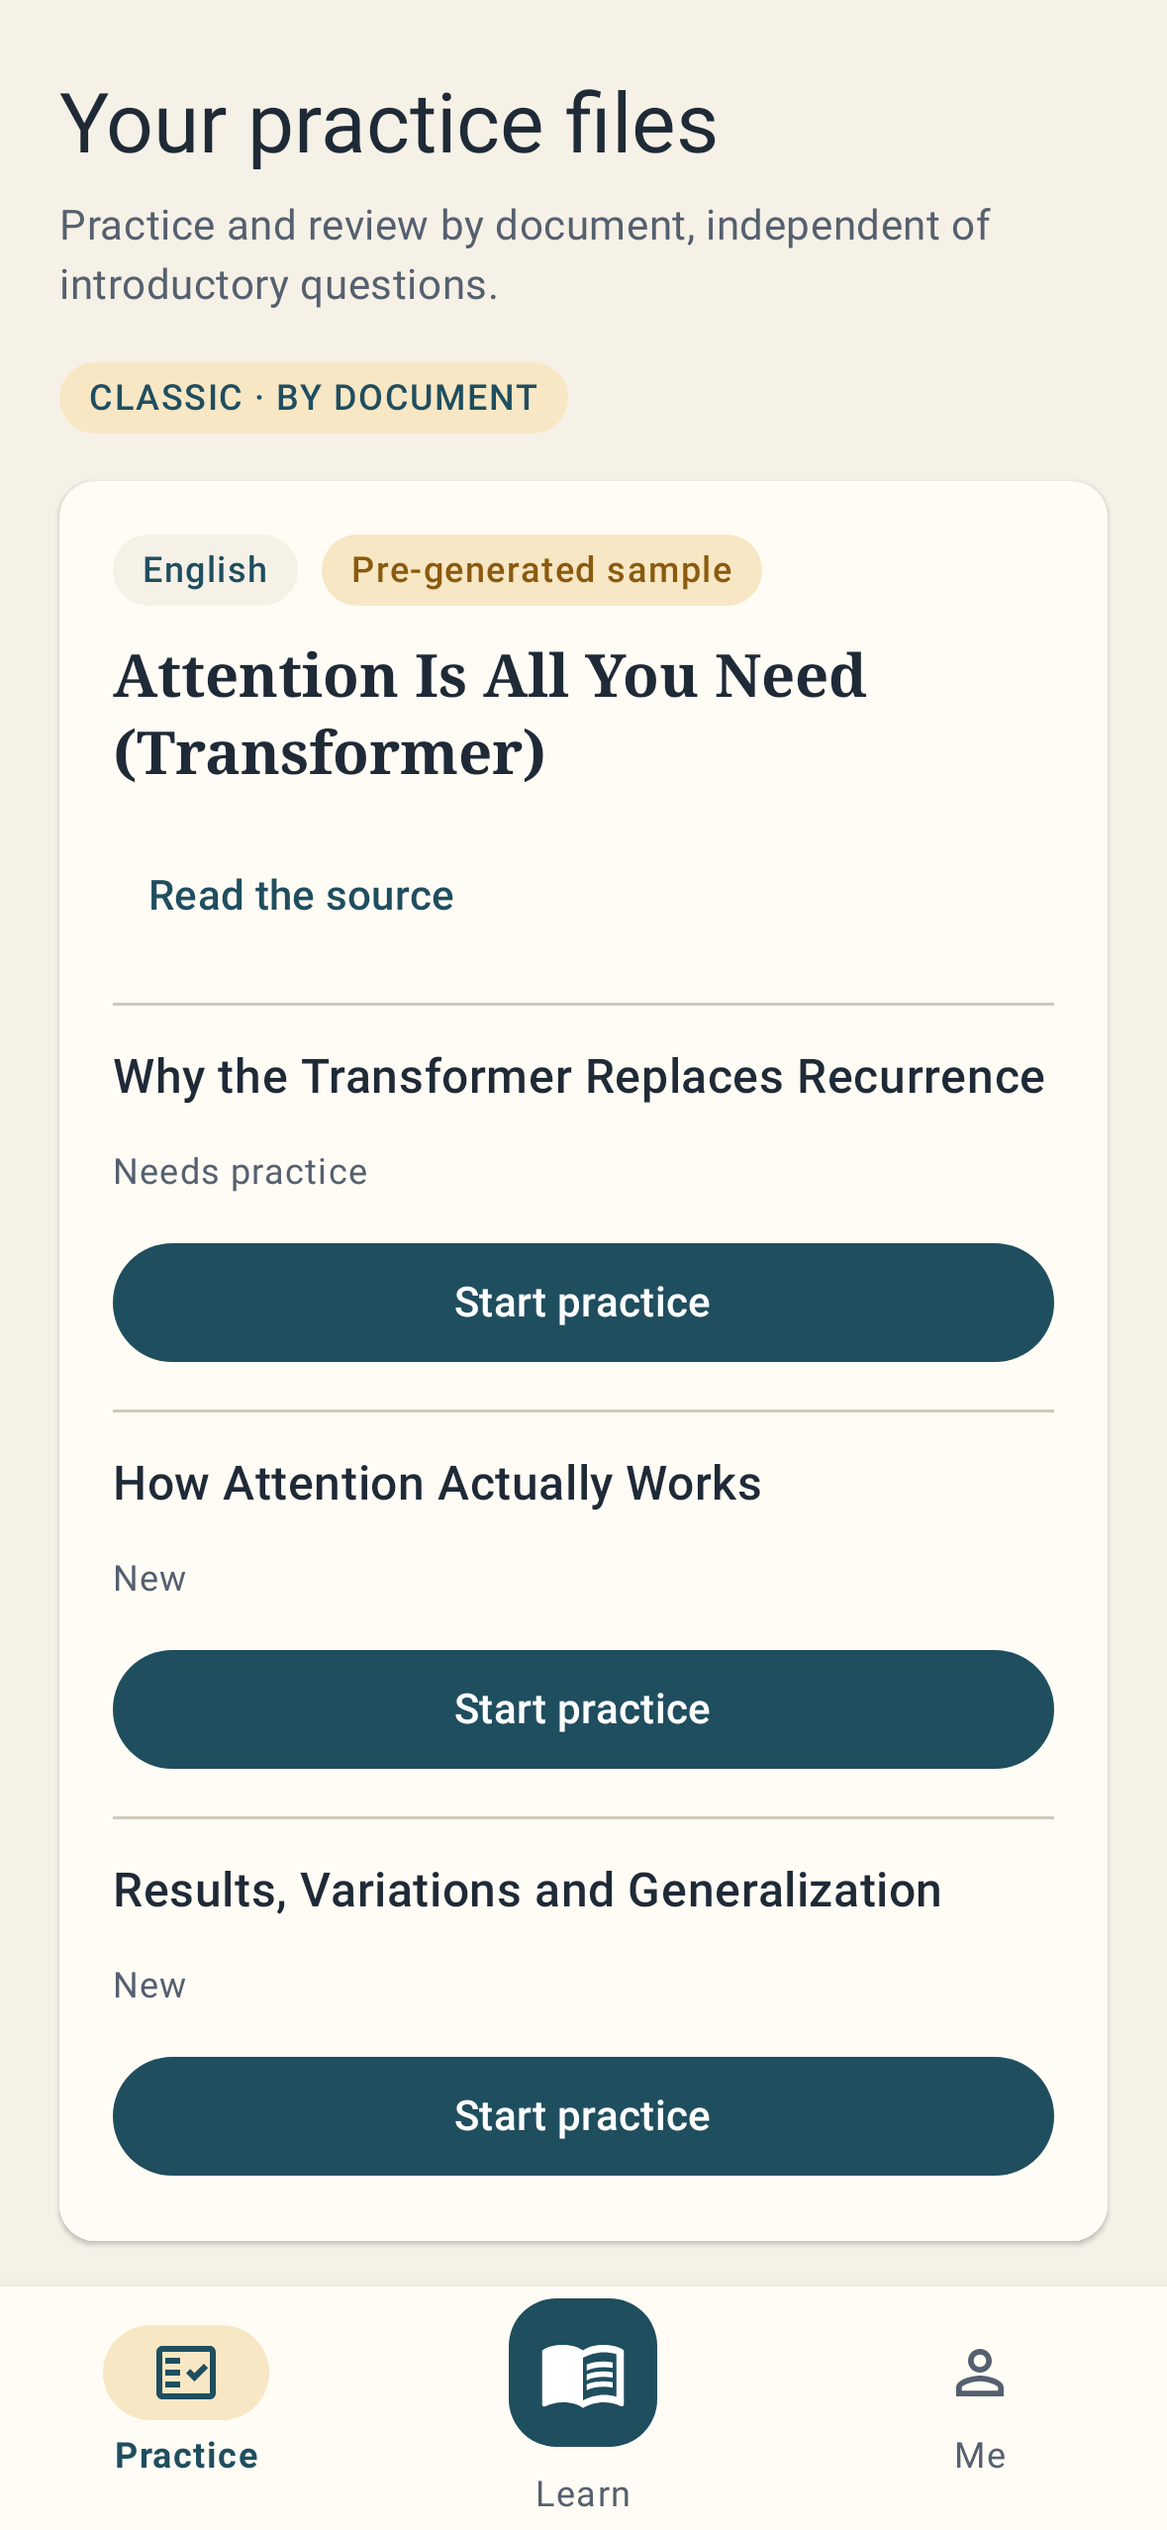
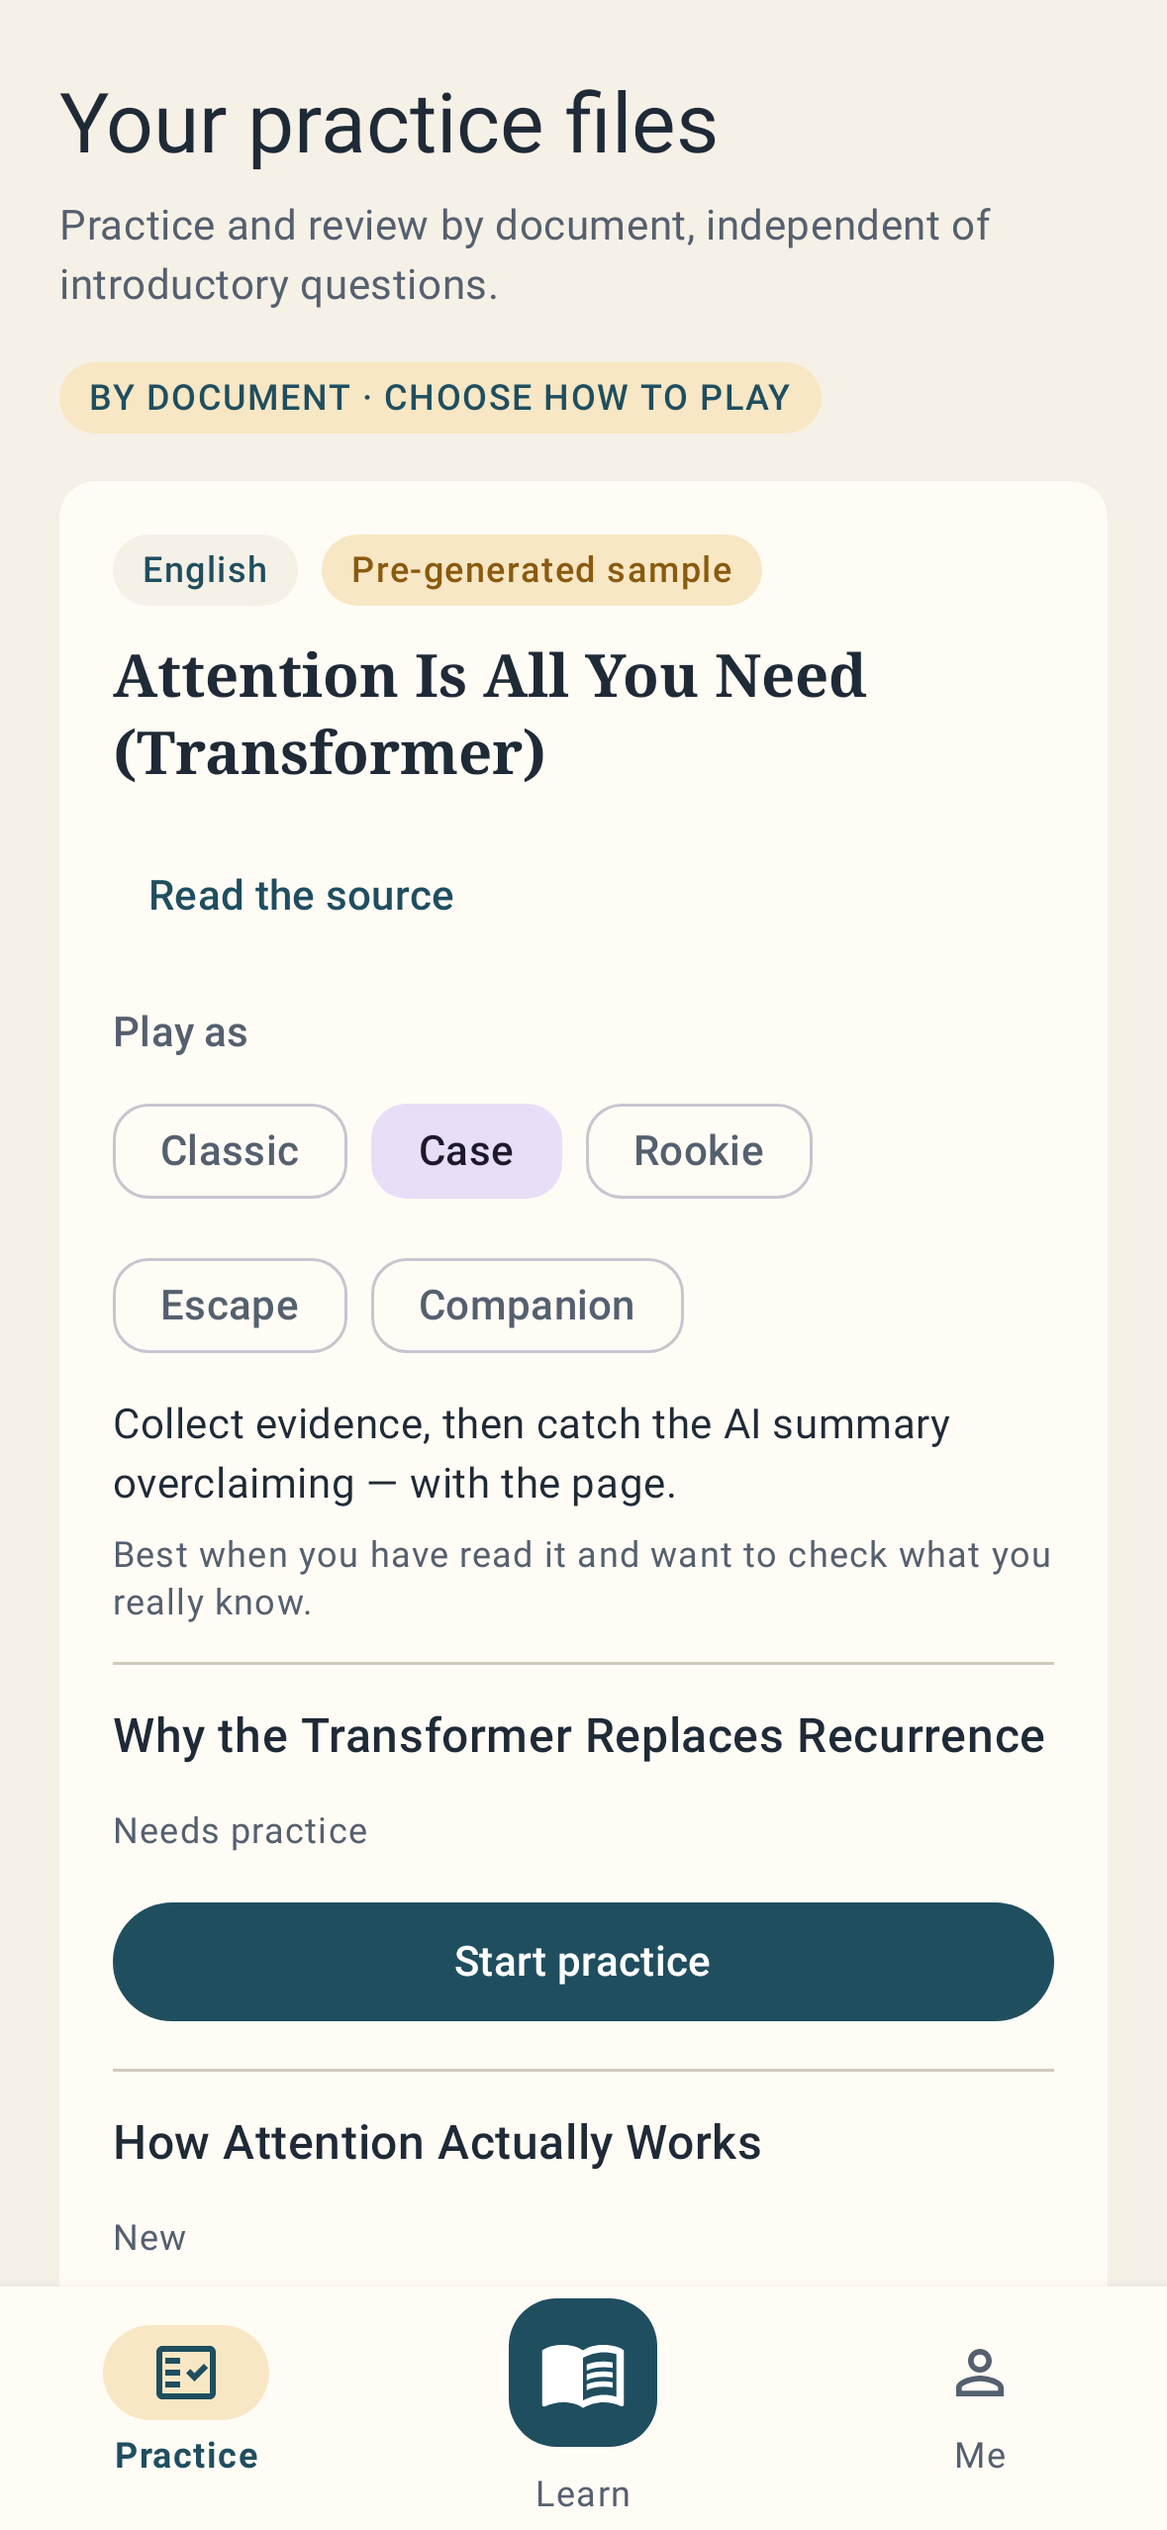
Frames: what really differs, and 'Play as' in Practice
- docs/product/frames.md: same clues in every frame; the difference is the act (recall / evaluate / explain /
  structure / first pass) and the reader state it fits; where frames are thin; keep/fold recommendation
- Practice: 'Play as' per course, only generated frames, ordered by reader state, with what-you-do and best-when;
  Classic stays default, open sessions resume in their frame, choice remembered per course and profile
- PRODUCT.md D1 updated

diff --git a/android/app/src/main/kotlin/com/anything2game/app/ui/home/HomeScreen.kt b/android/app/src/main/kotlin/com/anything2game/app/ui/home/HomeScreen.kt
@@ -70,6 +70,7 @@ fun HomeContent(
     onPlay: (String, String, FrameId) -> Unit, onSelectTab: (HomeTab) -> Unit, onRetry: () -> Unit,
     padding: PaddingValues = PaddingValues(), simulator: (@Composable () -> Unit)? = null, onPreparePractice: (String) -> Unit = {},
     onSwitchProfile: (() -> Unit)? = null,
+    onSelectFrame: (String, FrameId) -> Unit = { _, _ -> },
 ) {
     val skin = A2g.skin
     LazyColumn(
@@ -150,6 +151,7 @@ fun HomeContent(
                     PaperCard {
                         PackageHeading(entry)
                         TextButton(onClick = { onRead(entry.summary.packageId) }) { Text(stringResource(R.string.home_read_first_action)) }
+                        if (entry.frames.size > 1) PlayAs(entry.frames, entry.selectedFrame) { onSelectFrame(entry.summary.packageId, it) }
                         entry.levels.forEach { level ->
                             HorizontalDivider(color = skin.outline.copy(alpha = .4f))
                             Text(level.title, color = skin.ink, style = MaterialTheme.typography.titleMedium)
@@ -267,4 +269,21 @@ private fun ProfileIdentity(avatarId: String, nickname: String, onRename: (Strin
         confirmButton = { TextButton(onClick = { onRename(draft.trim()); editing = false }) { Text(stringResource(R.string.home_save)) } },
         dismissButton = { TextButton(onClick = { editing = false }) { Text(stringResource(R.string.import_cancel)) } },
     )
+}
+
+/** "Play as": the same clues, a different thing to do with them — and when each one fits (docs/product/frames.md). */
+@Composable
+private fun PlayAs(frames: List<FrameId>, selected: FrameId, onSelect: (FrameId) -> Unit) {
+    val skin = A2g.skin
+    Column(verticalArrangement = Arrangement.spacedBy(6.dp)) {
+        Text(stringResource(R.string.practice_play_as), style = MaterialTheme.typography.labelLarge, color = skin.inkMuted)
+        androidx.compose.foundation.layout.FlowRow(horizontalArrangement = Arrangement.spacedBy(8.dp), verticalArrangement = Arrangement.spacedBy(4.dp)) {
+            frames.forEach { f ->
+                androidx.compose.material3.FilterChip(f == selected, { onSelect(f) },
+                    { Text(stringResource(com.anything2game.app.ui.play.frameName(f))) }, Modifier.testTag("play_as_${f.name}"))
+            }
+        }
+        Text(stringResource(com.anything2game.app.ui.play.frameDescription(selected)), style = MaterialTheme.typography.bodyMedium, color = skin.ink)
+        Text(stringResource(com.anything2game.app.ui.play.frameBestFor(selected)), style = MaterialTheme.typography.bodySmall, color = skin.inkMuted)
+    }
 }

diff --git a/android/app/src/main/kotlin/com/anything2game/app/ui/library/LibraryViewModel.kt b/android/app/src/main/kotlin/com/anything2game/app/ui/library/LibraryViewModel.kt
@@ -36,7 +36,8 @@ data class LibraryEntry(
     val documentId: String = "",
     val mock: Boolean = false,
 ) {
-    fun frameFor(levelId: String): FrameId = if (levelId == resumableLevelId) resumeFrame else FrameId.CLASSIC
+    /** An open session resumes in its own frame; anything new starts in the frame the player chose (Classic by default). */
+    fun frameFor(levelId: String): FrameId = if (levelId == resumableLevelId) resumeFrame else selectedFrame
 }
 
 data class LevelEntry(val levelId: String, val number: Int, val title: String, val status: LevelStatus)
@@ -83,8 +84,11 @@ class LibraryViewModel(private val deps: AppDependencies) : ViewModel() {
             deps.packages.list().mapNotNull { summary ->
                 try {
                     val pkg = deps.packages.load(summary.packageId).getOrThrow()
+                    val available = deps.frames.available(pkg.packageId).toSet()
+                    val frames = com.anything2game.app.ui.play.framesByIntent.filter { it in available }
                     libraryEntry(summary, pkg, deps.sessions.load(summary.packageId), deps.mastery.all(summary.packageId), deps.clock.now())
-                        .copy(prepared = deps.homePreferences.isPrepared(pkg.packageId, pkg.contentVersion))
+                        .copy(prepared = deps.homePreferences.isPrepared(pkg.packageId, pkg.contentVersion),
+                            frames = frames, selectedFrame = deps.framePreferences.get(pkg.packageId)?.takeIf { it in frames } ?: FrameId.CLASSIC)
                 } catch (e: CancellationException) { throw e }
                 catch (_: Exception) { failed = true; null }
             }

diff --git a/android/app/src/main/kotlin/com/anything2game/app/ui/play/FrameViews.kt b/android/app/src/main/kotlin/com/anything2game/app/ui/play/FrameViews.kt
@@ -283,6 +283,20 @@ internal fun frameName(frameId: FrameId) = when (frameId) {
     FrameId.COMPANION -> R.string.frame_companion
 }
 
+/**
+ * Frames ordered by the reader's state, not by build order: quick review → check what you know → teach it →
+ * structure → first pass. The items are the same in every frame; what differs is what you do with them (frames.md).
+ */
+internal val framesByIntent = listOf(FrameId.CLASSIC, FrameId.CASE, FrameId.ROOKIE, FrameId.ESCAPE, FrameId.COMPANION)
+
+internal fun frameBestFor(frameId: FrameId) = when (frameId) {
+    FrameId.CLASSIC -> R.string.frame_classic_best
+    FrameId.CASE -> R.string.frame_case_best
+    FrameId.ESCAPE -> R.string.frame_escape_best
+    FrameId.ROOKIE -> R.string.frame_rookie_best
+    FrameId.COMPANION -> R.string.frame_companion_best
+}
+
 internal fun frameDescription(frameId: FrameId) = when (frameId) {
     FrameId.CLASSIC -> R.string.frame_classic_desc
     FrameId.CASE -> R.string.frame_case_desc

diff --git a/android/app/src/test/kotlin/com/anything2game/app/ProfileScreenshotTest.kt b/android/app/src/test/kotlin/com/anything2game/app/ProfileScreenshotTest.kt
@@ -51,7 +51,9 @@ class ProfileScreenshotTest {
             deps.profiles.choose(LocalProfile.SAMPLE)
             LibraryUiState(loading = false, entries = deps.packages.list().map { sum ->
                 val pkg = deps.packages.load(sum.packageId).getOrThrow()
+                val frames = com.anything2game.app.ui.play.framesByIntent.filter { it in deps.frames.available(pkg.packageId) }
                 libraryEntry(sum, pkg, deps.sessions.load(sum.packageId), deps.mastery.all(sum.packageId), deps.clock.now())
+                    .copy(frames = frames, selectedFrame = com.anything2game.contract.FrameId.CASE.takeIf { it in frames } ?: frames.first())
             })
         }
         val avatarId = deps.avatarPreferences.get() ?: "mochi"

diff --git a/android/app/src/main/kotlin/com/anything2game/app/ui/AppRoot.kt b/android/app/src/main/kotlin/com/anything2game/app/ui/AppRoot.kt
@@ -72,7 +72,7 @@ fun AppRoot(deps: AppDependencies, navigator: Navigator, onPickPdf: () -> Unit) 
                         onRename = { nickname = it; deps.homePreferences.nickname = it },
                         onPickPdf = onPickPdf, onRead = navigator::openRead, onPlay = navigator::openPlay,
                         onSelectTab = selectTab, onRetry = { vm.refresh() }, padding = padding, simulator = simulator, onPreparePractice = vm::preparePractice,
-                        onSwitchProfile = { navigator.toHome(); deps.profiles.leave() })
+                        onSwitchProfile = { navigator.toHome(); deps.profiles.leave() }, onSelectFrame = vm::selectFrame)
                 }
             }
         }

diff --git a/docs/product/frames.md b/docs/product/frames.md
@@ -1,0 +1,49 @@
+# What really differs between the game frames (2026-11-20)
+
+**Scope**: an honest comparison of Classic, Case, Escape, Rookie and Companion: what is identical, what differs, and what each is *for*. It is the basis of the "Play as" choice in Practice. This is input for the team's decision (PRODUCT.md D1). How frames work technically is covered in `contract/.../Frame.kt` and `FrameSpec`.
+
+## 1. What is the same in every frame
+
+By design (ADR in `Frame.kt`), a frame **never changes an item, its answer or its citation**. The 3–5 clues in the middle of a level are the same questions, graded the same way, in every frame. Mastery and spaced review are shared too: a unit you got right in Case counts in Classic.
+
+That keeps the content honest and costs nothing extra to generate. It also means that **if a frame only adds a story, it is a skin, not a different game.**
+
+## 2. What actually differs (from `FrameSpec` and the overlays)
+
+| | Classic | Case | Rookie | Escape | Companion |
+|---|---|---|---|---|---|
+| Story around the clues | none | briefing + outro | intro + outro | intro + outro | intro + outro |
+| Before each clue | — | — | the rookie **asks a question** | — | a partner **explains in 2–3 cited lines** |
+| Grouping | in order | in order, clues pinned to an evidence board | in order | **rooms** = parts of the reading | in order |
+| Stakes | none | credibility 3 (fail = case goes cold) | none | credibility 3 | none |
+| Final challenge | — | **cross-examine the AI Summary**: pick the overclaim, present evidence | **correct the rookie's notes**: find the misconception | **lock**: order the steps / deduce how the parts connect | — |
+| What you do with the knowledge | **recall** | **evaluate** claims against the source | **explain / correct** someone else | **structure**: how parts connect | **meet it for the first time** |
+| Best when | quick review, two minutes | you have read it and want to check | you know it (teaching is the deepest test) | the reading is a method or process | you have not read it yet |
+| Learning-science hook | retrieval practice | evidence-based reasoning; error detection | protégé effect (learning by teaching) | chunking; causal/sequence knowledge | pre-training / worked examples |
+
+So the essential difference is the **cognitive act** of the final challenge and of what comes before each clue, matched to **the reader's state**. The story only motivates that act.
+
+## 3. Where the frames are still thin
+
+1. **The middle clues do not change.** In Case, Escape and Rookie, most of the play time is the same clue sequence. Only the beginning and the end differ.
+2. **Escape's rooms only regroup.** Unless the document is a process, the rooms feel like Classic with walls.
+3. **Companion overlaps the new Learn tab.** The tutor (diagnose → explain gaps with the page) does Companion's job better.
+
+## 4. Recommendation (for the team)
+
+| Frame | Keep? | Why |
+|---|---|---|
+| Classic | **yes, default for quick review** | fastest; the daily review loop |
+| Case | **yes, the hero mode for the video** | the strongest "game" moment; matches the positioning (catch the AI summary) |
+| Rookie | **yes** | a genuinely different act (teach and correct); good for exam preparation |
+| Escape | **only for process-heavy documents** | offer it when a document has order/process units; otherwise it adds little |
+| Companion | **fold into Learn** | the tutor covers "first pass before reading"; keep the overlay format for later |
+
+Next steps that would make the differences go beyond the ends of a level, all additive to the contract:
+- **Case**: each clue's verdict pins its evidence on the board, and the boss can only use pinned evidence (partly built).
+- **Rookie**: after a correct clue, the rookie states a misconception from that unit's feedback, and you say why it is wrong (teach-back). This reuses existing misconception feedback.
+- **Escape**: each room ends with a mini order/deduce built from that room's units.
+
+## 5. What is in the app now
+
+Practice shows **Play as** on every course card. It offers only the frames generated for that course, ordered by reader state: Classic → Case → Rookie → Escape → Companion. Under the chips it shows *what you do* and *when it fits*. Classic stays the default, an open session resumes in its own frame, and the choice is remembered per course and per profile.

diff --git a/docs/product/PRODUCT.md b/docs/product/PRODUCT.md
@@ -62,7 +62,7 @@ Welcome: who is playing?  ── Lin, the sample student (lived-in demo) | Guest
 |---|---|
 | [onboarding-and-focus](onboarding-and-focus.md): reading map, focus choice, warm-up level | The **opening** is replaced by the tutor's diagnostic, which plays the reading map's role. The **focus / facet** idea (tag units by problem / method / results, select at play time) is still open (decision D4). |
 | [home-navigation](../design/home-navigation.md): chapter self-rating + summary | superseded by the tutor (stated in the teammate's doc) |
-| [engagement-flow](../design/engagement-flow.md): Case hero flow | built, but **new practice opens Classic only**, so Case is not reachable from the home screen (decision D1) |
+| [engagement-flow](../design/engagement-flow.md): Case hero flow | built; reachable again from Practice via **Play as** ([frames](frames.md)) |
 | [characters](../design/characters.md) | built and integrated in *Me* |
 | [design-review](../design/design-review-2026-11-19.md) length budgets | not yet applied to generation; preset text is still long in places |
 
@@ -87,7 +87,7 @@ The video (≤ 15 min, faces shown, no AI voice or avatar) sells the concept on 
 
 | # | Decision | Options | Recommendation |
 |---|---|---|---|
-| D1 | Frames in *Practice* | keep Classic-only; or offer "Play as" (Case default, Classic quick) | **Offer Case again**: it is the "game" in Anything2Game and the strongest demo moment |
+| D1 | Frames in *Practice* | Classic only; or "Play as" per course | **Done as "Play as"** (Classic default; Case, Rookie, Escape, Companion when generated), described by what you do and when it fits. Still open: drop Companion into Learn, and offer Escape only for process-heavy documents ([frames](frames.md) §4) |
 | D2 | Learn tab on preset courses | only the fixed retrieval example; or give each preset pack an optional tutor script (pack entry, additive to ADR-017) | **Add tutor scripts to the 2–3 presets used in the video** (generated with the real model, reviewed by a person) |
 | D3 | Dev labels in the recorded build ("AI mock", local-server notes) | keep; or hide behind a demo flag | **Keep honest labels**, and record flows that never show mock content (fixed example, presets) |
 | D4 | Focus / facets | after the video; or now | **After the video** |

diff --git a/docs/README.md b/docs/README.md
@@ -16,6 +16,7 @@ Language: documents are in English. Some teammate design docs are in Chinese (ma
 | `product/` | Every question the owner raised → answer → where it is decided | [question-log.md](product/question-log.md) | living |
 | `product/` | PM + game design: what you play, how it adapts | [game-design.md](product/game-design.md) | draft |
 | `product/` | How a course starts: explain vs play first, game comparison, start-up pressure, reading map + focus choice | [onboarding-and-focus.md](product/onboarding-and-focus.md) | opening superseded by the tutor diagnostic; focus/facets still open |
+| `product/` | What really differs between the 5 frames (same clues; different act and reader state); recommendation | [frames.md](product/frames.md) | for team decision |
 | `design/` | Design review: principles from research, audit with real content, 3 visual directions, action list | [design-review-2026-11-19.md](design/design-review-2026-11-19.md) | for team decision |
 | `design/` | Engagement flow: the 8 beats of a Case level, why each pulls, built vs next; storyboard of the real build | [engagement-flow.md](design/engagement-flow.md) · [hero-flow.png](design/screens/hero-flow.png) | draft for team |
 | `design/` | Player characters: pick your own, procedural motion, how it reacts, how the team's art swaps in | [characters.md](design/characters.md) | draft for team |
